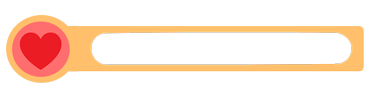
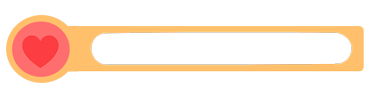
update

Changed region(s): [[0.0297, 0.3441, 0.1784, 0.7527]]

diff --git a/src/Entities/Manager.java b/src/Entities/Manager.java
@@ -37,7 +37,6 @@ public class Manager{
 	}
 	
 	public void loadScreen(int state){
-		System.out.println(state);
 		if(state == Constants.MENU_STATE){
 			clearLevel();
 			loadingImages(texture.Menu[0]);
@@ -146,19 +145,19 @@ public class Manager{
 				if(red == 255 && green == 255 && blue == 255) addObject(new Block(i * 32, j * 32,0,ObjectId.Block));
 				if(red == 129 && green == 243 && blue == 158) addObject(new Block(i * 32, j * 32,1,ObjectId.Block));
 				if(red == 161 && green == 134 && blue == 190) addObject(new Reset(i * 32, j * 32,ObjectId.Reset));
-				if(red == 0 && green == 0 && blue == 255){ 
-					player = new Player(i * 32, j * 32,this,camera,ObjectId.Player);
+				if(red == 0 && green == 0 && blue == 255){
+					player = new Player(i * 32, j * 32,this,camera,ObjectId.Player); 
 					addObject(player);
 				}
-				if(red == 0 && green == 97 && blue == 11){
-					lvlOne = new LevelOne(i * 32, j * 32,ObjectId.LevelOne);
-					addObject(lvlOne);
-				}
+				if(red == 0 && green == 97 && blue == 11)addObject(new LevelOne(i * 32, j * 32,ObjectId.LevelOne));
+				
 			}		
 		}
 
 	}
-	
+	public Player getPlayer(){
+		return player;
+	}
 	public LevelOne getlevel(){
 		return lvlOne;
 	}

diff --git a/src/Entities/Player.java b/src/Entities/Player.java
@@ -38,7 +38,7 @@ public class Player extends GameObject{
 	private Animation palyerjump;
 	private Animation palyerFall;
 	private Animation playerRun;
-	private int health;
+
 	
 	public Player(float x, float y, Manager manager,PlayerCam camera,ObjectId id){
 		super(x, y, id);
@@ -69,23 +69,30 @@ public class Player extends GameObject{
 
 		facing = Facing.LEFT;
 		jumpState = JumpState.FALLING;
-		health = 100;
+		health = Constants.PLAYER_HEALTH;
+	
 	}
 
 
 
 	public void update(LinkedList<GameObject> object){
 
-		x += velocity_X;
-		y += velocity_Y;
+
+		if(facing == Facing.LEFT){
+			x +=velocity_X;
+		}else if(facing == Facing.RIGHT){
+			x +=velocity_X;
+		}
+		if(jumping){
+			y += velocity_Y;
+		}
 		
 		if(x <= 0 ){
 			x = 0;
-		}
+		}	
 		
 		if(falling || jumping){
 			velocity_Y += Constants.PLAYER_GRAVITY_ACCELERATION;
-			//velocity_X += Constants.PLAYER_GRAVITY_ACCELERATION;
 		}
 		
 		if(velocity_X < 0){
@@ -218,9 +225,8 @@ public class Player extends GameObject{
 		
 	}
 
-	public int getHealth(){
-		return health;
+	public int gethealth(){
+		return  health;
 	}
-
 
 } 

diff --git a/src/FrameWork/Hud.java b/src/FrameWork/Hud.java
@@ -1,5 +1,6 @@
 package FrameWork;
 
+import java.awt.Color;
 import java.awt.Font;
 import java.awt.Graphics;
 import java.awt.image.BufferedImage;
@@ -13,9 +14,9 @@ import Utils.Constants;
 public class Hud {
 	private Player player;
 	private BufferedImage hud;
-	private Manager manager;
-	public Hud(Manager manager){
-		this.manager = manager;
+	private int health;
+	public Hud(){
+
 		try {
 			hud = ImageIO.read(
 				getClass().getResourceAsStream(
@@ -26,6 +27,8 @@ public class Hud {
 		catch(Exception e) {
 			e.printStackTrace();
 		}
+		health = 0;
+		
 	}
 
 
@@ -35,10 +38,14 @@ public class Hud {
 	
 	public void render(Graphics g) {
 		
+		g.setColor(new Color(249,99, 127));
+        g.fillRect(90,39,health,40);     
 		g.drawImage(hud, 0, 10,null);
-		
 	}
 	
+	public void setHelth(int health){
+		this.health = health;
+	}
 	
 	
 }

diff --git a/src/Classes/Game.java b/src/Classes/Game.java
@@ -51,7 +51,7 @@ public class Game extends Canvas implements Runnable{
 		playerCamera = new PlayerCam(0,0);
 		manager = new Manager(playerCamera);
 		this.addKeyListener(new KeyInput(manager));
-		hud = new Hud(manager);
+		hud = new Hud();
 	}
 
 
@@ -97,7 +97,6 @@ public class Game extends Canvas implements Runnable{
 			
 		if(System.currentTimeMillis() - timer > 1000){
 			timer += 1000;
-			//System.out.println("FPS: " + updates);
 			frames = 0;
 			updates = 0;
 			}
@@ -140,6 +139,7 @@ public class Game extends Canvas implements Runnable{
 	    			Constants.GAME_WINDOW_WIDTH + 10, 
 	    			Constants.GAME_WINDOW_HEIGHT + 10, null);
 	    			hud.render(graphics);
+	    			hud.setHelth(manager.getPlayer().gethealth());
 	    }
 	    	
 		    if(playerCamera.getPositionX() < 0){

diff --git a/src/Utils/Constants.java b/src/Utils/Constants.java
@@ -12,6 +12,7 @@ public class Constants {
 	//Player
 	public static final int PLAYER_RECTANGLE_WIDTH = 100;
 	public static final int PLAYER_RECTANGLE_HEIGHT = 100;
+	public static final int PLAYER_HEALTH = 262;
 	public static final float PLAYER_GRAVITY_ACCELERATION = 0.5f;
 	public static final float PLAYER_MOVEMENT_SPEDD = 10;
 	public static final float PLAYER_JUMP_HIGHT = 10;

diff --git a/src/FrameWork/GameObject.java b/src/FrameWork/GameObject.java
@@ -17,6 +17,7 @@ public abstract class GameObject {
 	protected boolean falling;
 	protected boolean jumping;
 	protected int currentChoice;
+	protected int health;
 	protected final String[] options = {
 			"Start",
 			"Help",
